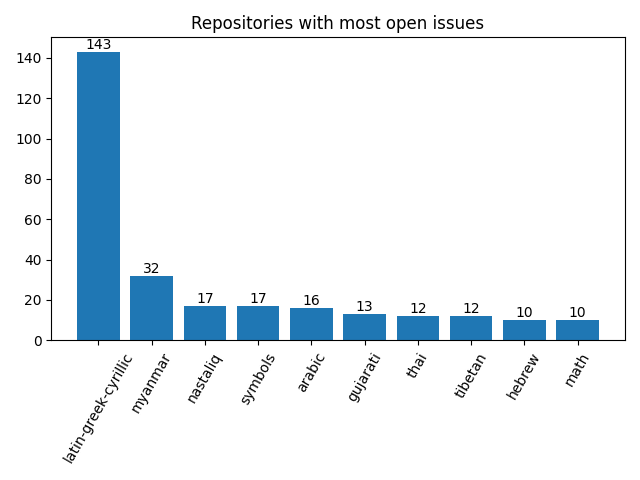
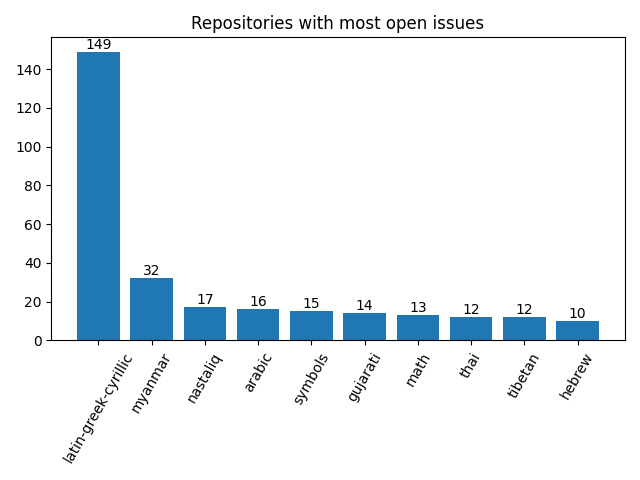
Apply automatic changes

diff --git a/docs/analytics.html b/docs/analytics.html
@@ -69,7 +69,7 @@ td .material-icons { display:inline-flex; vertical-align: top; font-size:1.1rem;
 						</tr>
 						<tr>
 							<td>Jan</td>
-							<td>10</td>
+							<td>9</td>
 							<td>150</td>
 						</tr>
 						<tr>
@@ -79,13 +79,13 @@ td .material-icons { display:inline-flex; vertical-align: top; font-size:1.1rem;
 						</tr>
 						<tr>
 							<td>Mar</td>
-							<td>24</td>
+							<td>23</td>
 							<td>100</td>
 						</tr>
 						<tr>
 							<td>Apr</td>
-							<td>22</td>
-							<td>2</td>
+							<td>32</td>
+							<td>7</td>
 						</tr>
 					</table>
 				</div>
@@ -105,7 +105,7 @@ td .material-icons { display:inline-flex; vertical-align: top; font-size:1.1rem;
 							<td>
 								<a href="http://github.com/notofonts/latin-greek-cyrillic">latin-greek-cyrillic</a>
 							</td>
-							<td>143</td>
+							<td>149</td>
 						</tr>
 						<tr>
 							<td>
@@ -121,19 +121,25 @@ td .material-icons { display:inline-flex; vertical-align: top; font-size:1.1rem;
 						</tr>
 						<tr>
 							<td>
-								<a href="http://github.com/notofonts/symbols">symbols</a>
-							</td>
-							<td>17</td>
-						</tr>
-						<tr>
-							<td>
 								<a href="http://github.com/notofonts/arabic">arabic</a>
 							</td>
 							<td>16</td>
 						</tr>
 						<tr>
 							<td>
+								<a href="http://github.com/notofonts/symbols">symbols</a>
+							</td>
+							<td>15</td>
+						</tr>
+						<tr>
+							<td>
 								<a href="http://github.com/notofonts/gujarati">gujarati</a>
+							</td>
+							<td>14</td>
+						</tr>
+						<tr>
+							<td>
+								<a href="http://github.com/notofonts/math">math</a>
 							</td>
 							<td>13</td>
 						</tr>
@@ -152,12 +158,6 @@ td .material-icons { display:inline-flex; vertical-align: top; font-size:1.1rem;
 						<tr>
 							<td>
 								<a href="http://github.com/notofonts/hebrew">hebrew</a>
-							</td>
-							<td>10</td>
-						</tr>
-						<tr>
-							<td>
-								<a href="http://github.com/notofonts/math">math</a>
 							</td>
 							<td>10</td>
 						</tr>
@@ -182,19 +182,19 @@ td .material-icons { display:inline-flex; vertical-align: top; font-size:1.1rem;
 				<tr>
 					<td>2</td>
 					<td>
-						<a href="http://github.com/notofonts/canadian-aboriginal">canadian-aboriginal</a>,  						<a href="http://github.com/notofonts/cham">cham</a>,  						<a href="http://github.com/notofonts/chorasmian">chorasmian</a>,  						<a href="http://github.com/notofonts/coptic">coptic</a>,  						<a href="http://github.com/notofonts/elbasan">elbasan</a>,  						<a href="http://github.com/notofonts/elymaic">elymaic</a>,  						<a href="http://github.com/notofonts/hanifi-rohingya">hanifi-rohingya</a>,  						<a href="http://github.com/notofonts/hanunoo">hanunoo</a>,  						<a href="http://github.com/notofonts/inscriptional-pahlavi">inscriptional-pahlavi</a>,  						<a href="http://github.com/notofonts/limbu">limbu</a>,  						<a href="http://github.com/notofonts/lydian">lydian</a>,  						<a href="http://github.com/notofonts/marchen">marchen</a>,  						<a href="http://github.com/notofonts/meroitic">meroitic</a>,  						<a href="http://github.com/notofonts/multani">multani</a>,  						<a href="http://github.com/notofonts/ottoman-siyaq-numbers">ottoman-siyaq-numbers</a>,  						<a href="http://github.com/notofonts/phags-pa">phags-pa</a>,  						<a href="http://github.com/notofonts/psalter-pahlavi">psalter-pahlavi</a>,  						<a href="http://github.com/notofonts/takri">takri</a>,  						<a href="http://github.com/notofonts/tamil">tamil</a>,  						<a href="http://github.com/notofonts/tangsa">tangsa</a>,  						<a href="http://github.com/notofonts/thaana">thaana</a>,  						<a href="http://github.com/notofonts/yezidi">yezidi</a>,  						<a href="http://github.com/notofonts/zanabazar-square">zanabazar-square</a> 
+						<a href="http://github.com/notofonts/canadian-aboriginal">canadian-aboriginal</a>,  						<a href="http://github.com/notofonts/cham">cham</a>,  						<a href="http://github.com/notofonts/chorasmian">chorasmian</a>,  						<a href="http://github.com/notofonts/coptic">coptic</a>,  						<a href="http://github.com/notofonts/elbasan">elbasan</a>,  						<a href="http://github.com/notofonts/elymaic">elymaic</a>,  						<a href="http://github.com/notofonts/hanifi-rohingya">hanifi-rohingya</a>,  						<a href="http://github.com/notofonts/hanunoo">hanunoo</a>,  						<a href="http://github.com/notofonts/inscriptional-pahlavi">inscriptional-pahlavi</a>,  						<a href="http://github.com/notofonts/kawi">kawi</a>,  						<a href="http://github.com/notofonts/limbu">limbu</a>,  						<a href="http://github.com/notofonts/lydian">lydian</a>,  						<a href="http://github.com/notofonts/marchen">marchen</a>,  						<a href="http://github.com/notofonts/meroitic">meroitic</a>,  						<a href="http://github.com/notofonts/multani">multani</a>,  						<a href="http://github.com/notofonts/ottoman-siyaq-numbers">ottoman-siyaq-numbers</a>,  						<a href="http://github.com/notofonts/phags-pa">phags-pa</a>,  						<a href="http://github.com/notofonts/psalter-pahlavi">psalter-pahlavi</a>,  						<a href="http://github.com/notofonts/takri">takri</a>,  						<a href="http://github.com/notofonts/tamil">tamil</a>,  						<a href="http://github.com/notofonts/tangsa">tangsa</a>,  						<a href="http://github.com/notofonts/thaana">thaana</a>,  						<a href="http://github.com/notofonts/yezidi">yezidi</a>,  						<a href="http://github.com/notofonts/zanabazar-square">zanabazar-square</a> 
 					</td>
 				</tr>
 				<tr>
 					<td>3</td>
 					<td>
-						<a href="http://github.com/notofonts/ahom">ahom</a>,  						<a href="http://github.com/notofonts/ethiopic">ethiopic</a>,  						<a href="http://github.com/notofonts/georgian">georgian</a>,  						<a href="http://github.com/notofonts/glagolitic">glagolitic</a>,  						<a href="http://github.com/notofonts/gunjala-gondi">gunjala-gondi</a>,  						<a href="http://github.com/notofonts/kawi">kawi</a>,  						<a href="http://github.com/notofonts/mandaic">mandaic</a>,  						<a href="http://github.com/notofonts/old-hungarian">old-hungarian</a>,  						<a href="http://github.com/notofonts/old-sogdian">old-sogdian</a>,  						<a href="http://github.com/notofonts/old-turkic">old-turkic</a>,  						<a href="http://github.com/notofonts/sharada">sharada</a>,  						<a href="http://github.com/notofonts/soyombo">soyombo</a>,  						<a href="http://github.com/notofonts/tagalog">tagalog</a>,  						<a href="http://github.com/notofonts/tai-viet">tai-viet</a>,  						<a href="http://github.com/notofonts/telugu">telugu</a> 
+						<a href="http://github.com/notofonts/ahom">ahom</a>,  						<a href="http://github.com/notofonts/ethiopic">ethiopic</a>,  						<a href="http://github.com/notofonts/georgian">georgian</a>,  						<a href="http://github.com/notofonts/glagolitic">glagolitic</a>,  						<a href="http://github.com/notofonts/gunjala-gondi">gunjala-gondi</a>,  						<a href="http://github.com/notofonts/mandaic">mandaic</a>,  						<a href="http://github.com/notofonts/nko">nko</a>,  						<a href="http://github.com/notofonts/old-hungarian">old-hungarian</a>,  						<a href="http://github.com/notofonts/old-sogdian">old-sogdian</a>,  						<a href="http://github.com/notofonts/old-turkic">old-turkic</a>,  						<a href="http://github.com/notofonts/sharada">sharada</a>,  						<a href="http://github.com/notofonts/soyombo">soyombo</a>,  						<a href="http://github.com/notofonts/sundanese">sundanese</a>,  						<a href="http://github.com/notofonts/tagalog">tagalog</a>,  						<a href="http://github.com/notofonts/tai-viet">tai-viet</a>,  						<a href="http://github.com/notofonts/telugu">telugu</a> 
 					</td>
 				</tr>
 				<tr>
 					<td>4</td>
 					<td>
-						<a href="http://github.com/notofonts/armenian">armenian</a>,  						<a href="http://github.com/notofonts/caucasian-albanian">caucasian-albanian</a>,  						<a href="http://github.com/notofonts/dogra">dogra</a>,  						<a href="http://github.com/notofonts/gurmukhi">gurmukhi</a>,  						<a href="http://github.com/notofonts/lao">lao</a>,  						<a href="http://github.com/notofonts/manichaean">manichaean</a>,  						<a href="http://github.com/notofonts/modi">modi</a>,  						<a href="http://github.com/notofonts/nandinagari">nandinagari</a>,  						<a href="http://github.com/notofonts/nko">nko</a>,  						<a href="http://github.com/notofonts/old-hungarian-ui">old-hungarian-ui</a>,  						<a href="http://github.com/notofonts/oriya">oriya</a>,  						<a href="http://github.com/notofonts/sundanese">sundanese</a>,  						<a href="http://github.com/notofonts/tai-tham">tai-tham</a> 
+						<a href="http://github.com/notofonts/armenian">armenian</a>,  						<a href="http://github.com/notofonts/caucasian-albanian">caucasian-albanian</a>,  						<a href="http://github.com/notofonts/dogra">dogra</a>,  						<a href="http://github.com/notofonts/gurmukhi">gurmukhi</a>,  						<a href="http://github.com/notofonts/lao">lao</a>,  						<a href="http://github.com/notofonts/manichaean">manichaean</a>,  						<a href="http://github.com/notofonts/modi">modi</a>,  						<a href="http://github.com/notofonts/nandinagari">nandinagari</a>,  						<a href="http://github.com/notofonts/old-hungarian-ui">old-hungarian-ui</a>,  						<a href="http://github.com/notofonts/oriya">oriya</a>,  						<a href="http://github.com/notofonts/tai-tham">tai-tham</a> 
 					</td>
 				</tr>
 				<tr>
@@ -230,7 +230,7 @@ td .material-icons { display:inline-flex; vertical-align: top; font-size:1.1rem;
 				<tr>
 					<td>10</td>
 					<td>
-						<a href="http://github.com/notofonts/hebrew">hebrew</a>,  						<a href="http://github.com/notofonts/math">math</a>,  						<a href="http://github.com/notofonts/tirhuta">tirhuta</a> 
+						<a href="http://github.com/notofonts/hebrew">hebrew</a>,  						<a href="http://github.com/notofonts/tirhuta">tirhuta</a> 
 					</td>
 				</tr>
 			</table>
@@ -245,13 +245,13 @@ td .material-icons { display:inline-flex; vertical-align: top; font-size:1.1rem;
 						<tr>
 							<td>1</td>
 							<td>
-									<a href="http://github.com/notofonts/latin-greek-cyrillic">latin-greek-cyrillic</a>: 143, 
+									<a href="http://github.com/notofonts/latin-greek-cyrillic">latin-greek-cyrillic</a>: 149, 
 
 									<a href="http://github.com/notofonts/nastaliq">nastaliq</a>: 17, 
 
 									<a href="http://github.com/notofonts/arabic">arabic</a>: 16, 
 
-									<a href="http://github.com/notofonts/gujarati">gujarati</a>: 13, 
+									<a href="http://github.com/notofonts/gujarati">gujarati</a>: 14, 
 
 									<a href="http://github.com/notofonts/hebrew">hebrew</a>: 10, 
 
@@ -295,11 +295,11 @@ td .material-icons { display:inline-flex; vertical-align: top; font-size:1.1rem;
 						<tr>
 							<td>3</td>
 							<td>
-									<a href="http://github.com/notofonts/symbols">symbols</a>: 17, 
+									<a href="http://github.com/notofonts/symbols">symbols</a>: 15, 
+
+									<a href="http://github.com/notofonts/math">math</a>: 13, 
 
 									<a href="http://github.com/notofonts/tibetan">tibetan</a>: 12, 
-
-									<a href="http://github.com/notofonts/math">math</a>: 10, 
 
 									<a href="http://github.com/notofonts/siddham">siddham</a>: 7, 
 
@@ -321,15 +321,15 @@ td .material-icons { display:inline-flex; vertical-align: top; font-size:1.1rem;
 
 									<a href="http://github.com/notofonts/modi">modi</a>: 4, 
 
-									<a href="http://github.com/notofonts/nko">nko</a>: 4, 
-
-									<a href="http://github.com/notofonts/sundanese">sundanese</a>: 4, 
-
 									<a href="http://github.com/notofonts/tai-tham">tai-tham</a>: 4, 
 
 									<a href="http://github.com/notofonts/gunjala-gondi">gunjala-gondi</a>: 3, 
 
+									<a href="http://github.com/notofonts/nko">nko</a>: 3, 
+
 									<a href="http://github.com/notofonts/sharada">sharada</a>: 3, 
+
+									<a href="http://github.com/notofonts/sundanese">sundanese</a>: 3, 
 
 									<a href="http://github.com/notofonts/tagalog">tagalog</a>: 3, 
 
@@ -397,13 +397,13 @@ td .material-icons { display:inline-flex; vertical-align: top; font-size:1.1rem;
 
 									<a href="http://github.com/notofonts/glagolitic">glagolitic</a>: 3, 
 
-									<a href="http://github.com/notofonts/kawi">kawi</a>: 3, 
-
 									<a href="http://github.com/notofonts/mandaic">mandaic</a>: 3, 
 
 									<a href="http://github.com/notofonts/old-hungarian">old-hungarian</a>: 3, 
 
 									<a href="http://github.com/notofonts/soyombo">soyombo</a>: 3, 
+
+									<a href="http://github.com/notofonts/kawi">kawi</a>: 2, 
 
 									<a href="http://github.com/notofonts/lydian">lydian</a>: 2, 
 
